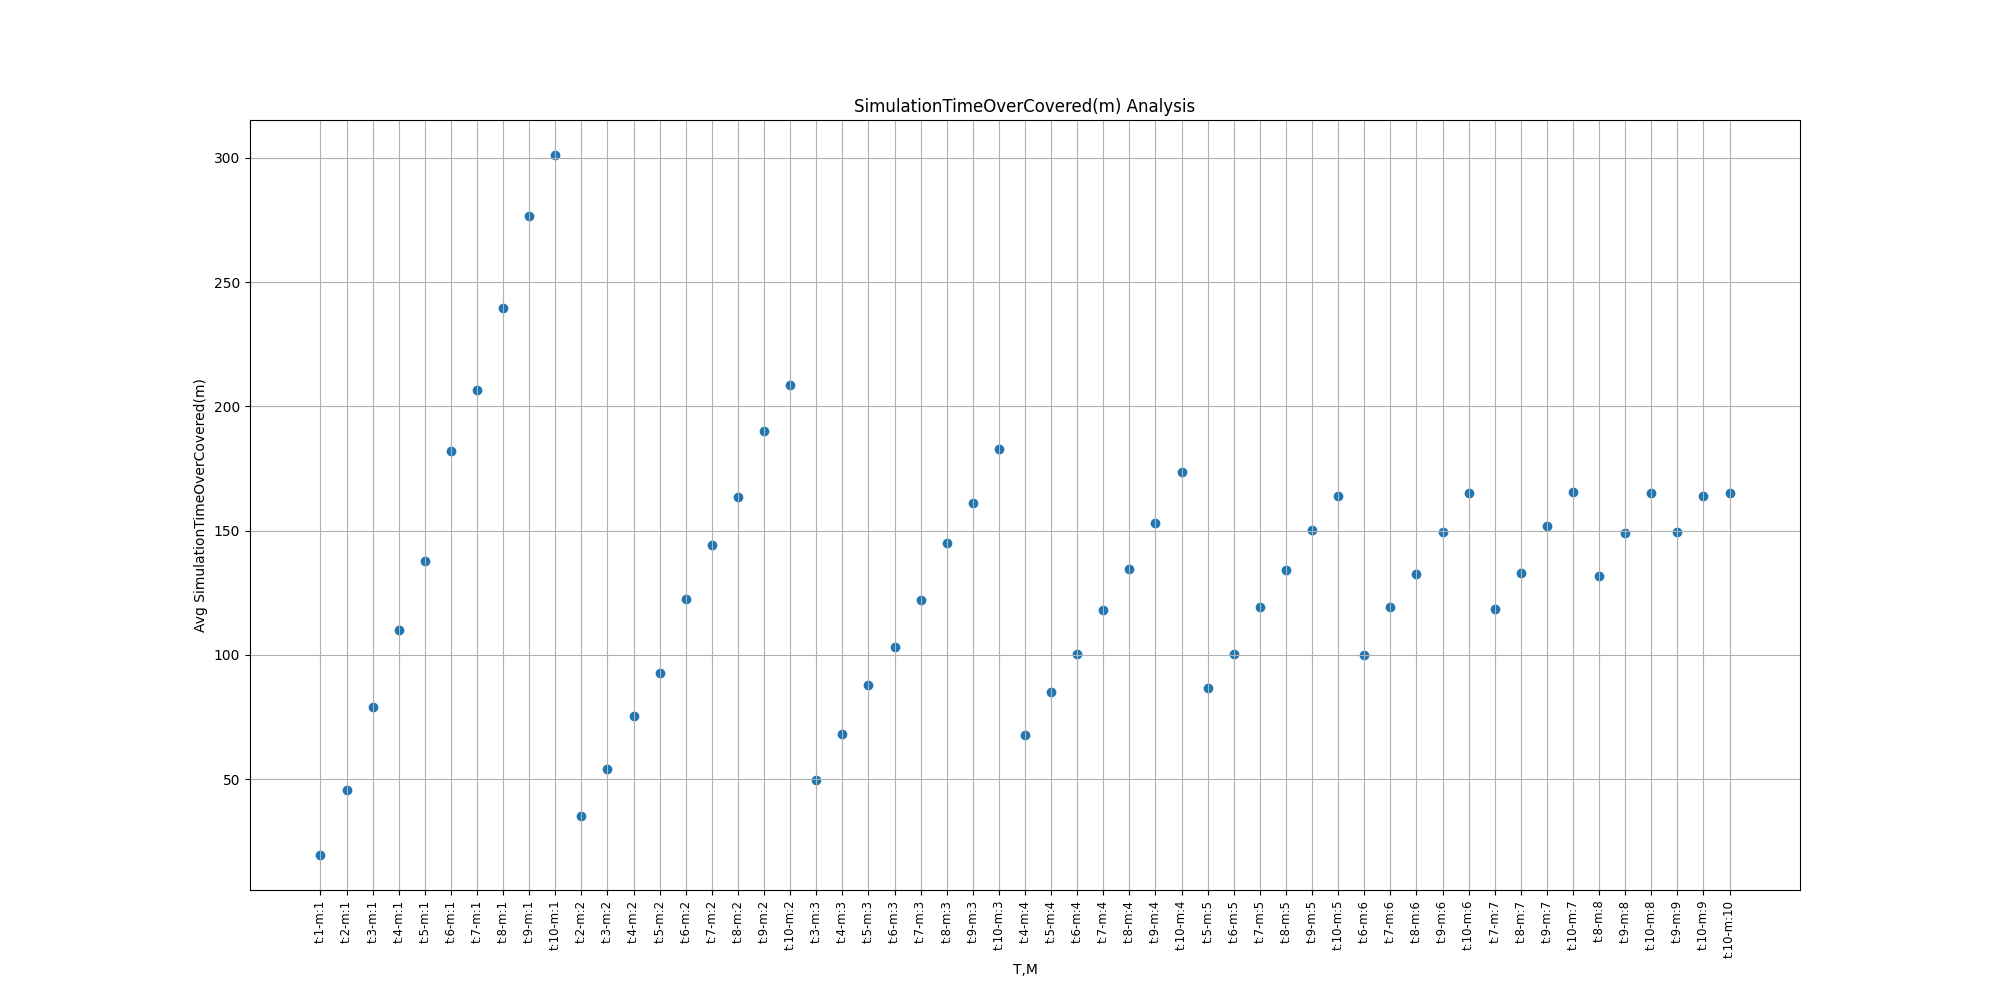
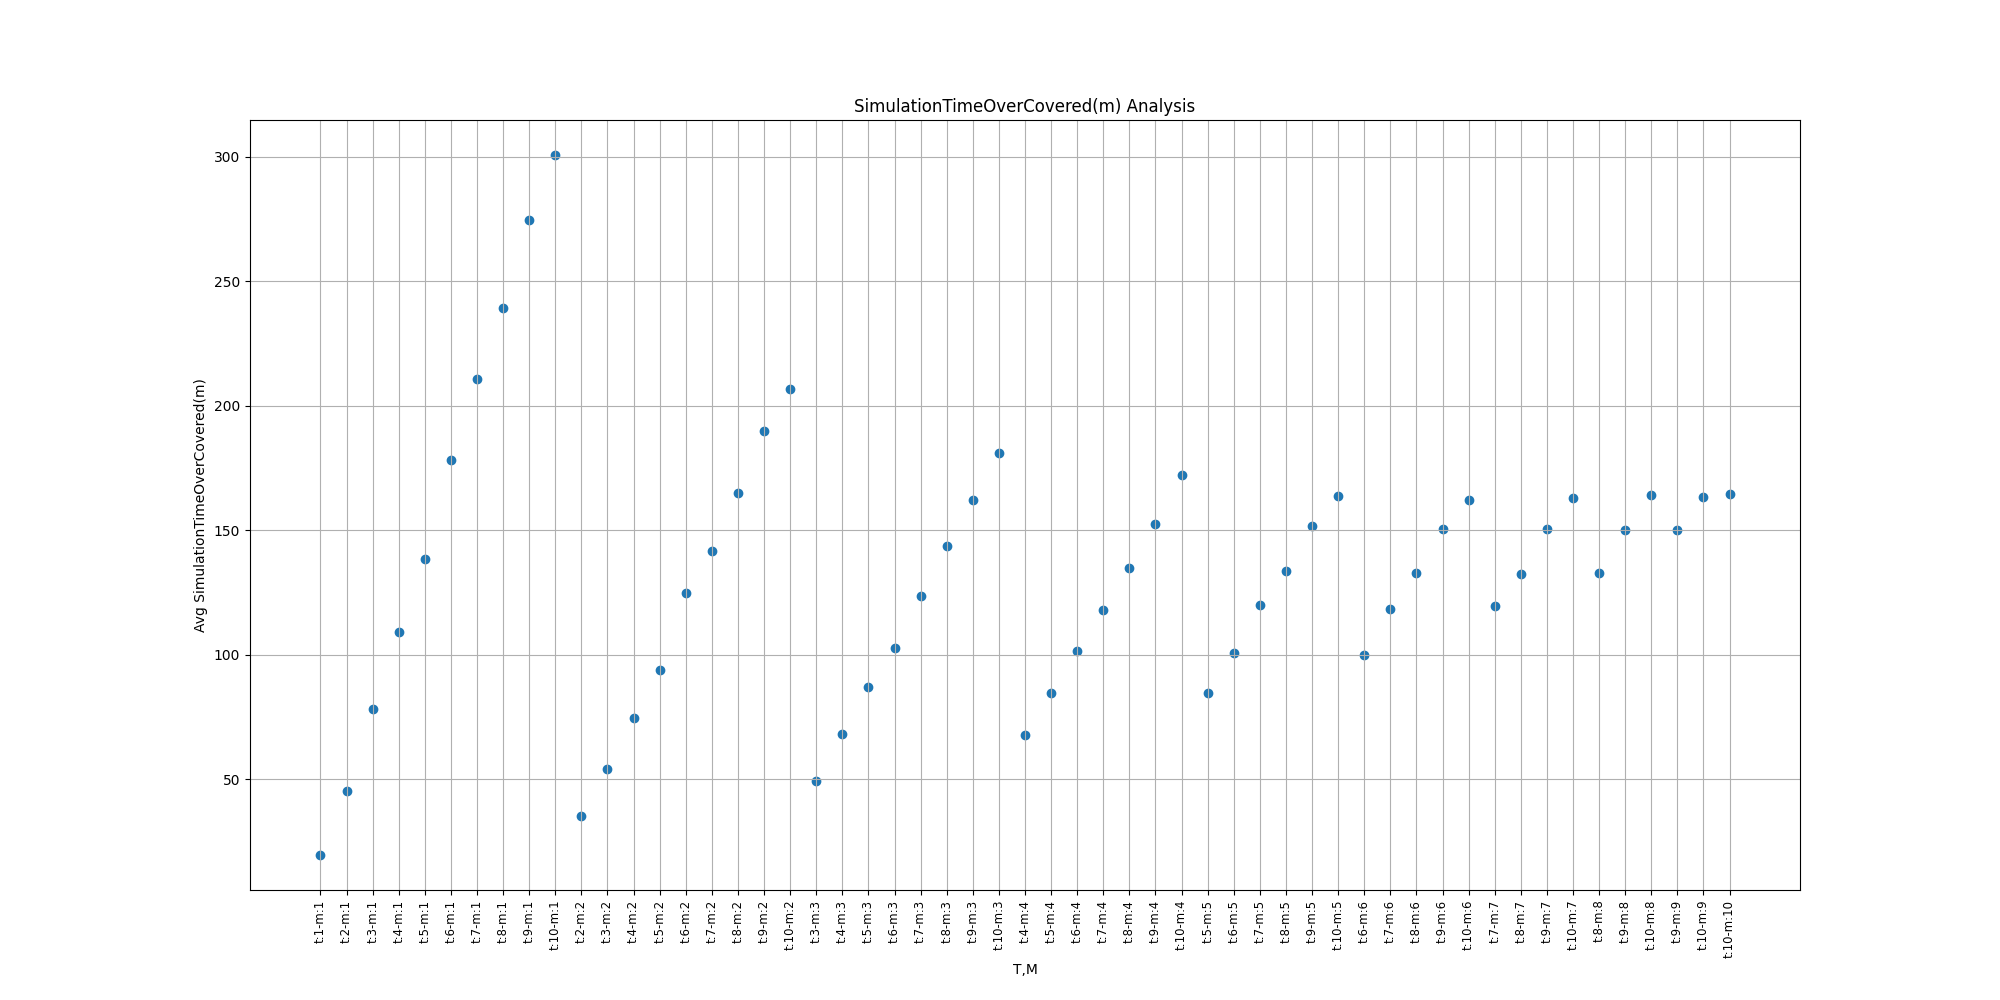
Aggiunto allo script il grafico della stampa dei messaggi inviati, risolto bug su salvataggio dei messaggi inviati in user.cc

Changed region(s): [[0.465, 0.527, 0.496, 0.558], [0.341, 0.527, 0.372, 0.558]]

diff --git a/simulations/collisioni.py b/simulations/collisioni.py
@@ -2,6 +2,7 @@ import os
 import pandas as pd
 import numpy as np
 import matplotlib.pyplot as plt
+import shutil
 
 confidanceLevel = 1.96
 order_by = 'm' # t or m, ordinamento asse x
@@ -116,6 +117,8 @@ collisionValues = {}
 receivedPacketsValues = {}
 coveredValues = {}
 simTimeValues = {}
+sendMessageValues = {}
+neighborsValues = {}
 
 files = os.listdir(path)
 #scorro tutti i file e mi salvo nella hashmap key(radius)-vector(values) tutti i valori 
@@ -123,13 +126,11 @@ files = os.listdir(path)
 for file in files:
     if file.endswith(".csv"):
         coveredValuesTmp = []
+        sendMessageValuesTmp = []
         rowFile = pd.read_csv(os.path.join(path,file))
-        #print(rowFile)
-
         header = extractHeader(rowFile)
-
         custom_key = "t:"+header['T']+"-"+"m:"+header['m']
-
+        #Scorro un file
         for i in range(0,len(rowFile['value'])):
             if rowFile['type'][i] != 'scalar':      #Skipping the header
                 continue
@@ -148,51 +149,64 @@ for file in files:
             elif(rowFile['name'][i] == '#Covered'):
                 coveredValuesTmp.append(rowFile['value'][i])
 
-
             elif (rowFile['name'][i] == '#SimTime[ms]'):
                 if not custom_key in simTimeValues:
                     simTimeValues[custom_key] = []
                 simTimeValues[custom_key].append(rowFile['value'][i])
-        sum = 0
+
+            elif (rowFile['name'][i] == '#SendMessage'):
+                sendMessageValuesTmp.append(rowFile['value'][i])
+            '''
+            elif (rowFile['name'][i] == '#Neighbors'):
+                if not custom_key in neighborsValues:
+                    neighborsValues[custom_key] = []
+                neighborsValues[custom_key].append(rowFile['value'][i])
+            '''
+        #Fine File
+        #Dopo ogni file aggiungo la statistica dei boolean
+        sumCovered = 0
         for val in coveredValuesTmp:
-            sum += val
+            sumCovered += val
         if not custom_key in coveredValues:
             coveredValues[custom_key] = []
-        coveredValues[custom_key].append(sum)
+        coveredValues[custom_key].append(sumCovered)
+
+        #Dopo ogni file aggiungo la statistica dei boolean
+        sumSendMessage = 0
+        for val in sendMessageValuesTmp:
+            sumSendMessage += val
+        if not custom_key in sendMessageValues:
+            sendMessageValues[custom_key] = []
+        sendMessageValues[custom_key].append(sumSendMessage)
 
 #Genero il nome della cartella e la creo
 folderTitle = "Radius(" + header['R'] + ")_Redrop(" + header['redrop'] + ")_Repetition(" + header['numberRepetition'] + ")_CL(" + str(confidanceLevel) + ")"
 save_path = os.path.join("graph",folderTitle)
+#Se la cartella esiste già la rimuovo prima
+if os.path.exists(save_path):
+    shutil.rmtree(save_path, ignore_errors=True)
 os.mkdir(save_path)
 
-#Stampo ordinando per m
-order_by = "m"
+order_key = ["t","m"]
 
-print_graph_TM("Collision("+order_by+")",collisionValues, save_path)
+#Stampo ordinando prima per t poi per m
+for order in order_key:
+    order_by = order
 
-print_graph_TM("ReceivedPackets("+order_by+")",receivedPacketsValues, save_path)
+    print_graph_TM("Collision("+order_by+")",collisionValues, save_path)
 
-print_graph_TM("Covered("+order_by+")",coveredValues, save_path)
+    print_graph_TM("ReceivedPackets("+order_by+")",receivedPacketsValues, save_path)
 
-print_graph_TM("SimulationTime("+order_by+")",simTimeValues, save_path)
+    print_graph_TM("Covered("+order_by+")",coveredValues, save_path)
 
-print_graph_TM_ratio("CollisionOverCovered("+order_by+")", collisionValues, coveredValues, save_path)
+    print_graph_TM("SimulationTime("+order_by+")",simTimeValues, save_path)
 
-print_graph_TM_ratio("SimulationTimeOverCovered("+order_by+")", simTimeValues, coveredValues, save_path)
+    print_graph_TM("SendMessage("+order_by+")",sendMessageValues, save_path)
 
-#Stampo ordinando per t
-order_by = "t"
+    #print_graph_TM("Neighbors("+order_by+")",neighborsValues, save_path)
 
-print_graph_TM("Collision("+order_by+")",collisionValues, save_path)
+    print_graph_TM_ratio("CollisionOverCovered("+order_by+")", collisionValues, coveredValues, save_path)
 
-print_graph_TM("ReceivedPackets("+order_by+")",receivedPacketsValues, save_path)
+    print_graph_TM_ratio("CollisionOverSendMessage(" + order_by + ")", collisionValues, sendMessageValues, save_path)
 
-print_graph_TM("Covered("+order_by+")",coveredValues, save_path)
-
-print_graph_TM("SimulationTime("+order_by+")",simTimeValues, save_path)
-
-print_graph_TM_ratio("CollisionOverCovered("+order_by+")", collisionValues, coveredValues, save_path)
-
-print_graph_TM_ratio("SimulationTimeOverCovered("+order_by+")", simTimeValues, coveredValues, save_path)
-
-
+    print_graph_TM_ratio("SimulationTimeOverCovered("+order_by+")", simTimeValues, coveredValues, save_path)

diff --git a/src/User.cc b/src/User.cc
@@ -244,7 +244,7 @@ void User::finish(){
     recordScalar("#Collision", this->collisions);
     recordScalar("#ReceivePacketInTSlots", this->receivedPacketsInTSlots);
 
-    if( this->receivedPacketsInTSlots >= this->m || this->sendInitialMessage){
+    if((this->currentStatus == DONE && this->receivedPacketsInTSlots < this->m) || this->sendInitialMessage){
         recordScalar("#SendMessage", 1);
     } else{
         recordScalar("#SendMessage", 0);
